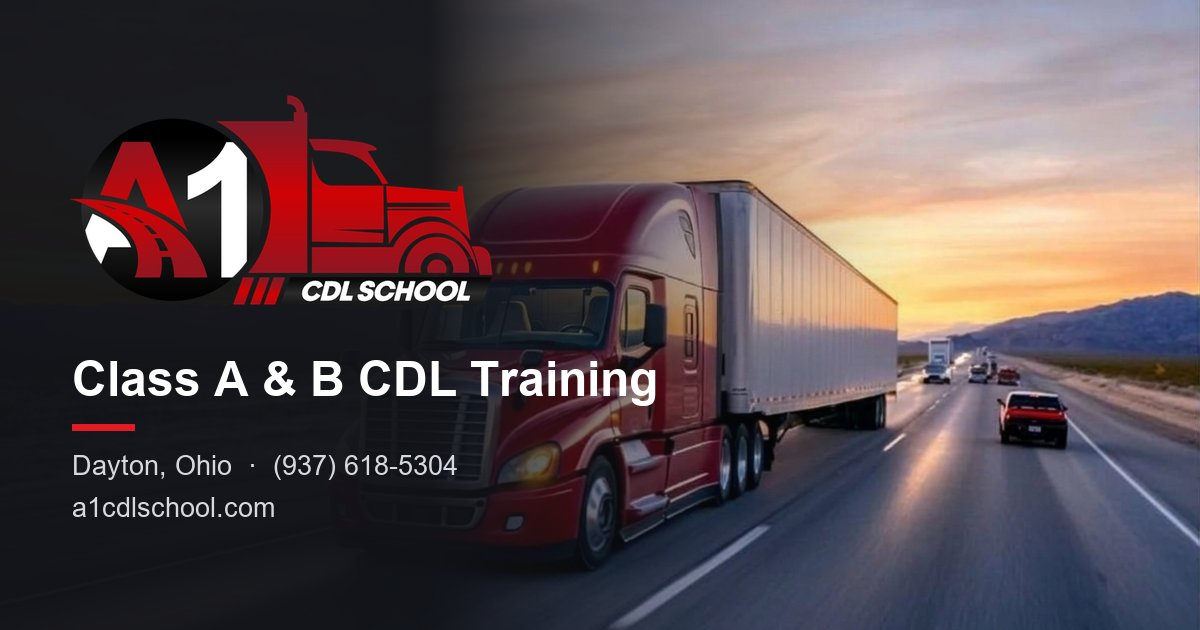
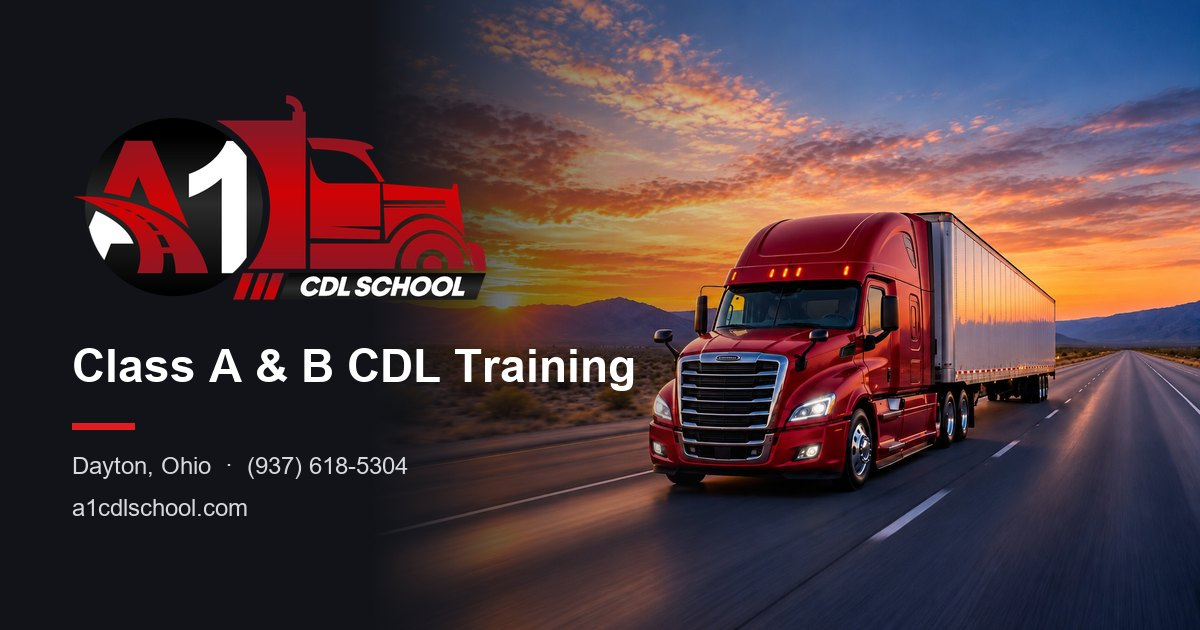
Rebuild social share image on truck-photo-3
Add tools/build_og_image.py to generate assets/og-image.jpg.

diff --git a/tools/build_og_image.py b/tools/build_og_image.py
@@ -1,0 +1,65 @@
+"""Build the social share image (assets/og-image.jpg, 1200x630) from the hero truck photo.
+
+    python tools/build_og_image.py
+
+Run tools/build_wp_theme.py afterwards so the theme gets the new image.
+"""
+from pathlib import Path
+
+from PIL import Image, ImageDraw, ImageFont
+
+ROOT = Path(__file__).resolve().parent.parent
+ASSETS = ROOT / "assets"
+W, H = 1200, 630
+DARK = (17, 19, 24)
+RED = (227, 27, 35)
+
+PHOTO = "truck-photo-3.png"
+PHOTO_WIDTH = 850  # photo is scaled to this width and pinned to the right edge
+PHOTO_TOP = 0.24   # share of the extra height cropped from the top
+
+FONT_DIRS = [Path("C:/Windows/Fonts"), Path("/Library/Fonts"), Path("/usr/share/fonts/truetype/msttcorefonts")]
+
+
+def font(name, size):
+    for d in FONT_DIRS:
+        if (d / name).exists():
+            return ImageFont.truetype(str(d / name), size)
+    raise FileNotFoundError(f"Font {name} not found in {FONT_DIRS}")
+
+
+def build():
+    img = Image.new("RGB", (W, H), DARK)
+
+    # Truck photo on the right
+    photo = Image.open(ASSETS / PHOTO).convert("RGB")
+    ph = round(photo.height * PHOTO_WIDTH / photo.width)
+    photo = photo.resize((PHOTO_WIDTH, ph), Image.LANCZOS)
+    top = round((ph - H) * PHOTO_TOP)
+    img.paste(photo.crop((0, top, PHOTO_WIDTH, top + H)), (W - PHOTO_WIDTH, 0))
+
+    # Dark fade from the left so the text stays readable
+    fade = Image.new("L", (W, 1))
+    solid, clear = W - PHOTO_WIDTH + 20, 880
+    for x in range(W):
+        t = min(max((x - solid) / (clear - solid), 0), 1)
+        fade.putpixel((x, 0), round(255 * (1 - t) ** 1.6))
+    img = Image.composite(Image.new("RGB", (W, H), DARK), img, fade.resize((W, H)))
+
+    logo = Image.open(ASSETS / "logo-white.png")
+    logo = logo.resize((420, round(logo.height * 420 / logo.width)), Image.LANCZOS)
+    img.paste(logo, (70, 92), logo)
+
+    d = ImageDraw.Draw(img)
+    d.text((72, 382), "Class A & B CDL Training", font=font("arialbd.ttf", 46), fill="white", anchor="ls")
+    d.rectangle((72, 423, 134, 429), fill=RED)
+    small = font("arial.ttf", 24)
+    d.text((72, 474), "Dayton, Ohio  \u00b7  (937) 618-5304", font=small, fill=(214, 216, 222), anchor="ls")
+    d.text((72, 516), "a1cdlschool.com", font=small, fill=(214, 216, 222), anchor="ls")
+
+    img.save(ASSETS / "og-image.jpg", quality=86, optimize=True, progressive=True)
+    print(f"Built {ASSETS / 'og-image.jpg'}")
+
+
+if __name__ == "__main__":
+    build()

diff --git a/README.md b/README.md
@@ -20,6 +20,7 @@ js/main.js                    Menu, scroll effects and form validation
 assets/                       Images, logo and icons
 robots.txt, sitemap.xml       Search engine files for the plain HTML site
 tools/build_wp_theme.py       Builds the WordPress theme from the HTML pages
+tools/build_og_image.py       Builds the social share image (assets/og-image.jpg)
 tools/wp/functions.php        Source for the theme's functions.php
 wp-theme/a1cdlschool/         Generated WordPress theme (committed)
 ```
